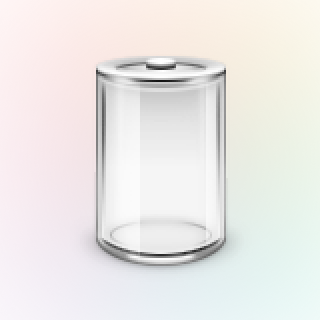
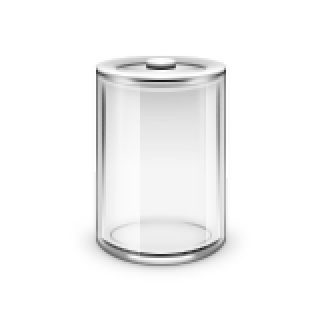
Update battery

Changed region(s): [[0.1875, 0.0, 0.9688, 0.9688]]

diff --git a/docs/_links/battery.md b/docs/_links/battery.md
@@ -1,11 +1,15 @@
 ---
 name: Battery
-tags: widget all
+tags: widget
 icon: download 
 order: 7
 href: https://widget.vision/widgets/battery
 size: 320x256
-style: borderless
+minsize: 320x256
+maxsize: 320x256
+controls: hide
+resize: none
+style: transparent
 ---
 
 

diff --git a/docs/_links/blockclock.md b/docs/_links/blockclock.md
@@ -7,7 +7,7 @@ order: 7
 href: https://widget.vision/widgets/blockclock
 size: 940x180
 radius: 0
-style: borderless
+style: transparent
 description: A clock, made of blocks
 tint: DB4437
 class: wide
